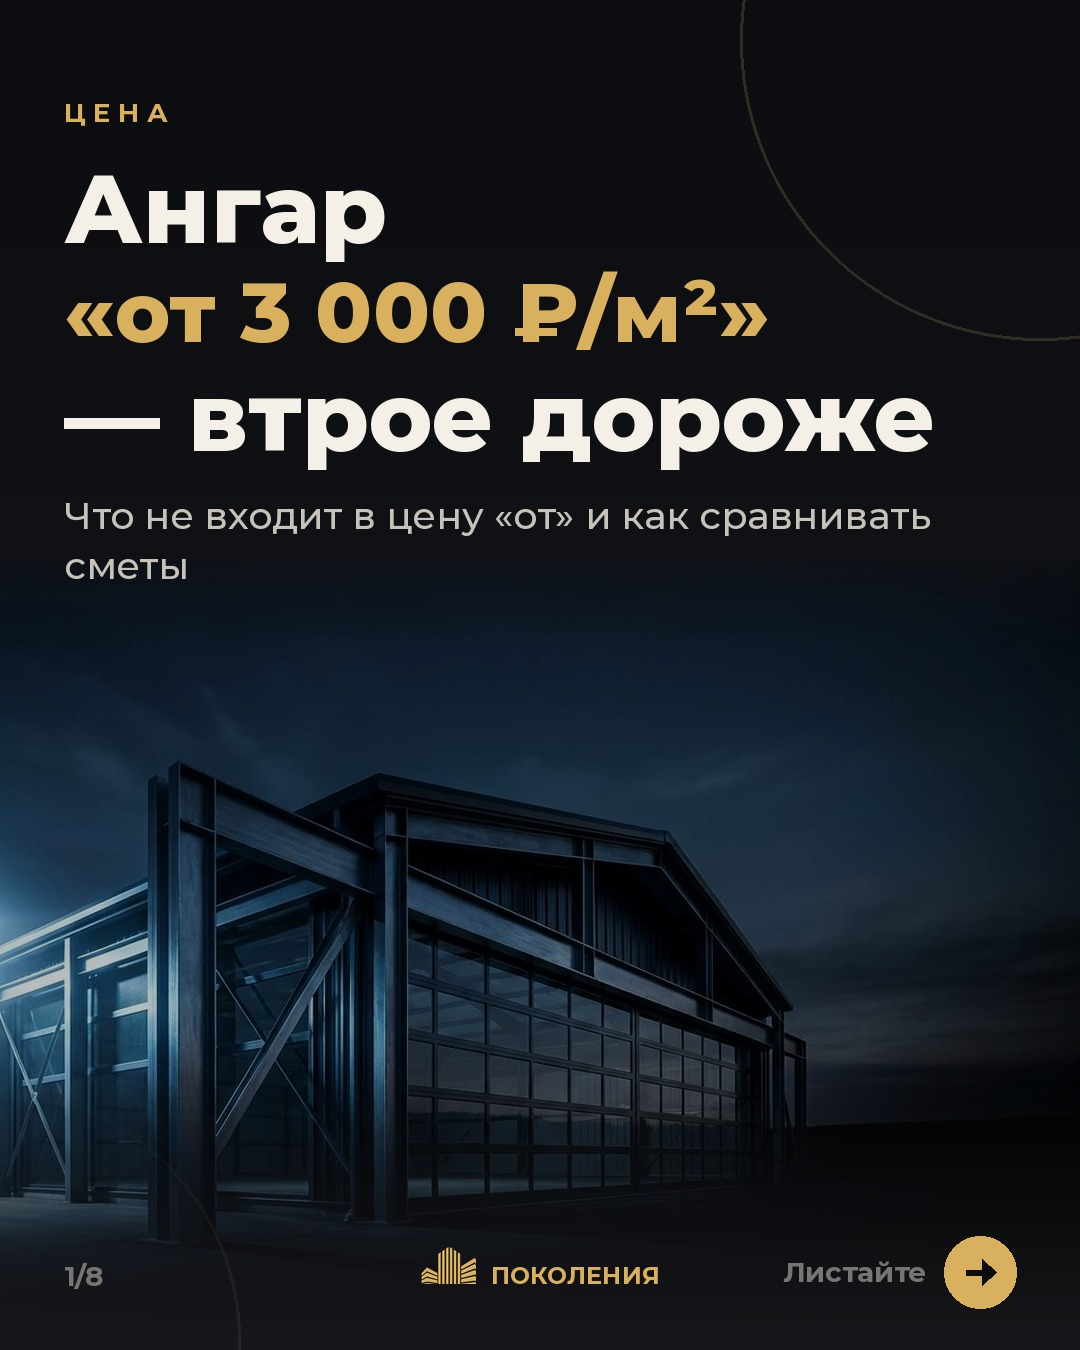
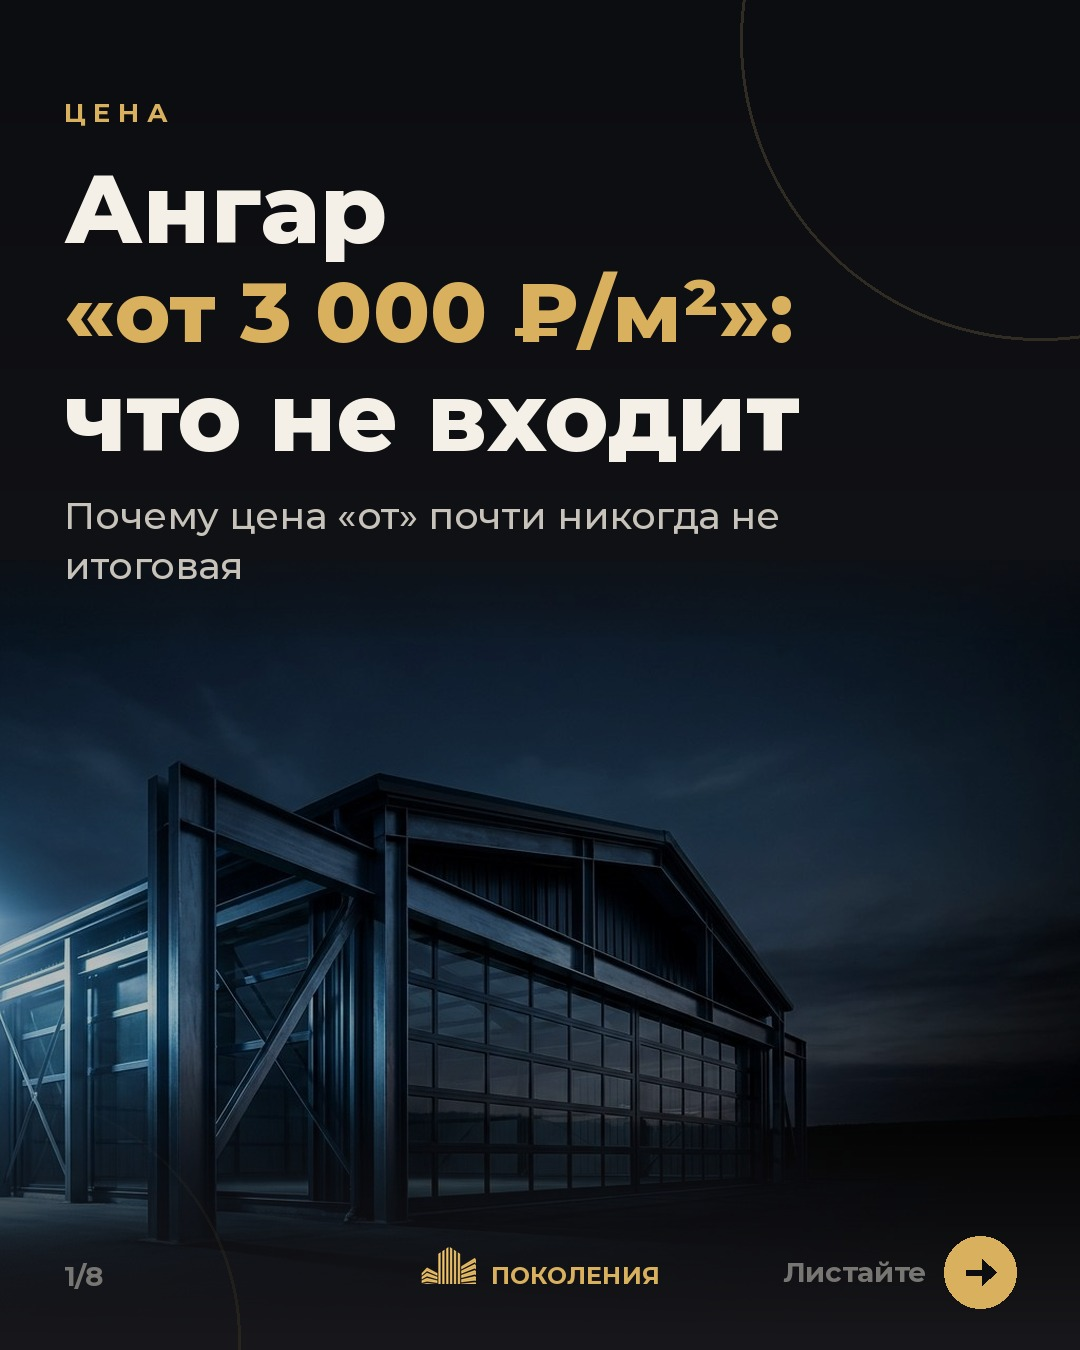
Add carousel #2 about «от» prices (not published)
Claude-Session: https://claude.ai/code/session_019hh1tyQfnmNP9Rdxadr1Bk

Changed region(s): [[0.0611, 0.28, 0.8556, 0.4356], [0.7028, 0.2178, 0.7333, 0.2489]]

diff --git a/brand/carousel_ot.py b/brand/carousel_ot.py
@@ -1,0 +1,89 @@
+"""Карусель №2 «Ангар „от 3 000 ₽/м²“: что не входит в цену» — 8 слайдов."""
+import os, shutil
+from PIL import Image, ImageDraw
+ROOT=os.path.dirname(os.path.abspath(__file__))+'/..'
+src=open(ROOT+'/brand/carousel_kapital_v2.py').read().split('\nslides = [')[0]
+g={'__file__':ROOT+'/brand/carousel_kapital_v2.py'}; exec(compile(src,'v2','exec'),g)
+F,W,H,GOLD,WHT,TXT,GRY,X0,BG1=[g[k] for k in 'F W H GOLD WHT TXT GRY X0 BG1'.split()]
+background,footer,rich=g['background'],g['footer'],g['rich']
+OUT=ROOT+'/drafts/carousel_ot/'; os.makedirs(OUT,exist_ok=True)
+RED=(196,92,72)
+
+def head(d,eyebrow,lines,size=80):
+    d.text((X0,96),eyebrow,font=F(26,'700'),fill=GOLD); y=150
+    for t,c in lines: d.text((X0,y),t,font=F(size),fill=c); y+=int(size*1.16)
+    return y
+
+def mark(d,x,y,ok):
+    if ok:
+        d.rounded_rectangle([x,y,x+44,y+44],radius=12,fill=GOLD); d.line([(x+11,y+23),(x+19,y+32),(x+33,y+13)],fill=BG1,width=5)
+    else:
+        d.rounded_rectangle([x,y,x+44,y+44],radius=12,outline=RED,width=3); d.line([(x+13,y+13),(x+31,y+31)],fill=RED,width=5); d.line([(x+31,y+13),(x+13,y+31)],fill=RED,width=5)
+
+def bullets(d,y,items,size=42,gap=34):
+    for b in items:
+        d.rounded_rectangle([X0,y+12,X0+22,y+34],radius=6,fill=GOLD); y=rich(d,X0+46,y,b,size,W-2*X0-46)+gap
+    return y
+
+def s2():
+    im=background(); d=ImageDraw.Draw(im)
+    y=head(d,'Ч Т О   З А   Ц И Ф Р О Й',[('Что обычно',WHT),('стоит за «от»',GOLD)])
+    y=rich(d,X0,y+20,[('Низкую цену в рекламе почти всегда считают',0),('за минимальную комплектацию.',1)],42,W-2*X0)+50
+    y=bullets(d,y,[[('Только',0),('металлокаркас',1),('— без стен и кровли',0)],
+                   [('Цена',0),('без монтажа',1),('и без доставки',0)],
+                   [('Минимальная',0),('высота и пролёт',1)],
+                   [('Цена за м²',0),('каркаса,',1),('а не готового здания',0)]])
+    rich(d,X0,y+20,[('Проверяли сайты подрядчиков Москвы и Петербурга — так написано мелким шрифтом.',0)],30,W-2*X0)
+    footer(im,2); return im
+
+def s3():
+    im=background(); d=ImageDraw.Draw(im)
+    y=head(d,'Ч Е Г О   Н Е Т   В   Ц Е Н Е   « О Т »',[('Что придётся',WHT),('доплатить',GOLD)])+30
+    for t in ['Проект (КЖ, КМ, КМД)','Фундамент и пол','Стены и кровля из сэндвич-панелей','Фасонные элементы и водосток','Ворота и окна','Доставка на объект','Монтаж с краном и техникой']:
+        mark(d,X0,y,False); d.text((X0+70,y+2),t,font=F(40,'700'),fill=WHT); y+=84
+    rich(d,X0,y+30,[('Каждая строка —',0),('отдельный счёт',1),('уже после подписания договора.',0)],36,W-2*X0)
+    footer(im,3); return im
+
+def s4():
+    im=background(); d=ImageDraw.Draw(im)
+    y=head(d,'С А М А Я   Д О Р О Г А Я   Ч А С Т Ь',[('Фундамент',GOLD),('и пол',WHT)],96)
+    y=rich(d,X0,y+30,[('В смете на ангар фундамент и пол часто —',0),('самая крупная статья.',1),('А в цену «от» они не входят почти никогда.',0)],44,W-2*X0)+60
+    y=bullets(d,y,[[('Разработка и',0),('вывоз грунта',1)],[('Ростверк',1),('или сваи под колонны',0)],[('Бетонная плита пола',1),('с армированием',0)],[('Песчаная и щебёночная',0),('подушка',1)]])
+    footer(im,4); return im
+
+def s5():
+    im=background(); d=ImageDraw.Draw(im)
+    y=head(d,'К А К   С Р А В Н И В А Т Ь   С М Е Т Ы',[('5 правил',GOLD),('сравнения',WHT)])+30
+    rules=[('1','Одинаковые площадь, высота и пролёт'),('2','Цена за готовое здание, а не за каркас'),('3','Полный список работ по статьям'),('4','Кто монтирует и чья техника'),('5','Что НЕ входит — списком, письменно')]
+    for n,t in rules:
+        d.text((X0,y),n,font=F(64),fill=GOLD); rich(d,X0+80,y+8,[(t,1)],44,W-2*X0-80); y+=150
+    footer(im,5); return im
+
+def s6():
+    im=background(); d=ImageDraw.Draw(im)
+    y=head(d,'К Р А С Н Ы Е   Ф Л А Г И',[('Когда смета',WHT),('вырастет',GOLD)])+30
+    for t in ['«Точную цену скажем после фундамента»','В смете нет списка работ — одна строка «под ключ»','Не написано, что не входит в цену','Нет срока и графика работ','Гарантия только на словах']:
+        mark(d,X0,y+4,False); yy=rich(d,X0+70,y,[(t,1)],42,W-2*X0-70); y=max(yy,y+60)+44
+    footer(im,6); return im
+
+def s7():
+    im=background(); d=ImageDraw.Draw(im)
+    y=head(d,'К А К   Д Е Л А Е М   М Ы',[('Смета без',WHT),('сюрпризов',GOLD)])+30
+    for t in ['Все работы по статьям — от проекта до монтажа','Цена за готовое здание','Что не входит — списком, сразу в КП','Срок и порядок оплаты — в КП','Гарантия — в договоре']:
+        mark(d,X0,y+4,True); yy=rich(d,X0+70,y,[(t,1)],42,W-2*X0-70); y=max(yy,y+60)+44
+    footer(im,7); return im
+
+def s8():
+    im=background(); d=ImageDraw.Draw(im)
+    y=head(d,'О С Т А Л И С Ь   В О П Р О С Ы ?',[('Пришлите смету',WHT),('другого',WHT),('подрядчика',GOLD)],84)
+    y=rich(d,X0,y+20,[('Покажем, что в неё не вошло, и посчитаем свою —',0),('по статьям.',1)],46,W-2*X0)+90
+    d.text((X0,y),'Нужно построить ангар?',font=F(52),fill=WHT); d.text((X0,y+70),'Пишите в директ',font=F(52),fill=GOLD)
+    d.text((X0,y+190),'Сохраните, чтобы не потерять',font=F(30,'700'),fill=GRY)
+    footer(im,8,last=True); return im
+
+shutil.copy(ROOT+'/drafts/plan_covers/02.jpg',OUT+'01.jpg')
+slides=[Image.open(OUT+'01.jpg').convert('RGBA'),s2(),s3(),s4(),s5(),s6(),s7(),s8()]
+for k,s in enumerate(slides,1): s.convert('RGB').save(OUT+f'{k:02d}.jpg',quality=93)
+sheet=Image.new('RGB',(4*300+50,2*375+30),(40,40,40))
+for k,s in enumerate(slides): sheet.paste(s.convert('RGB').resize((290,362),Image.LANCZOS),(10+(k%4)*310,10+(k//4)*385))
+sheet.save(OUT+'00_preview.jpg',quality=90); print('ok')

diff --git a/brand/plan_covers.py b/brand/plan_covers.py
@@ -10,7 +10,7 @@ g={'__file__':ROOT+'/brand/carousel_kapital_v2.py'}; exec(compile(src,'v2','exec
 F,W,H,GOLD,WHT,TXT,X0,background,footer,rich,MARK=[g[k] for k in 'F W H GOLD WHT TXT X0 background footer rich MARK'.split()]
 hang=Image.open(ROOT+'/brand/source/angar.jpg').convert('RGB').crop((0,0,1024,740))
 COV=[('20.11','Ц Е Н А',[('Ангар 1440 м²:',WHT),('куда уходят',WHT),('деньги',GOLD)],'Разбираем реальную смету по статьям'),
-('24.11','Ц Е Н А',[('Ангар',WHT),('«от 3 000 ₽/м²»',GOLD),('— втрое дороже',WHT)],'Что не входит в цену «от» и как сравнивать сметы'),
+('24.11','Ц Е Н А',[('Ангар',WHT),('«от 3 000 ₽/м²»:',GOLD),('что не входит',WHT)],'Почему цена «от» почти никогда не итоговая'),
 ('27.11','В Ы Б О Р',[('Холодный',WHT),('или тёплый',GOLD),('ангар?',WHT)],'Что выбрать под ваш бизнес в Москве и Петербурге'),
 ('01.12','Д О Г О В О Р',[('7 вопросов',GOLD),('подрядчику',WHT),('до подписи',WHT)],'Которые сэкономят вам деньги и нервы'),
 ('04.12','Ф У Н Д А М Е Н Т',[('Плита, лента',WHT),('или сваи?',GOLD)],'Какой фундамент нужен вашему ангару'),
